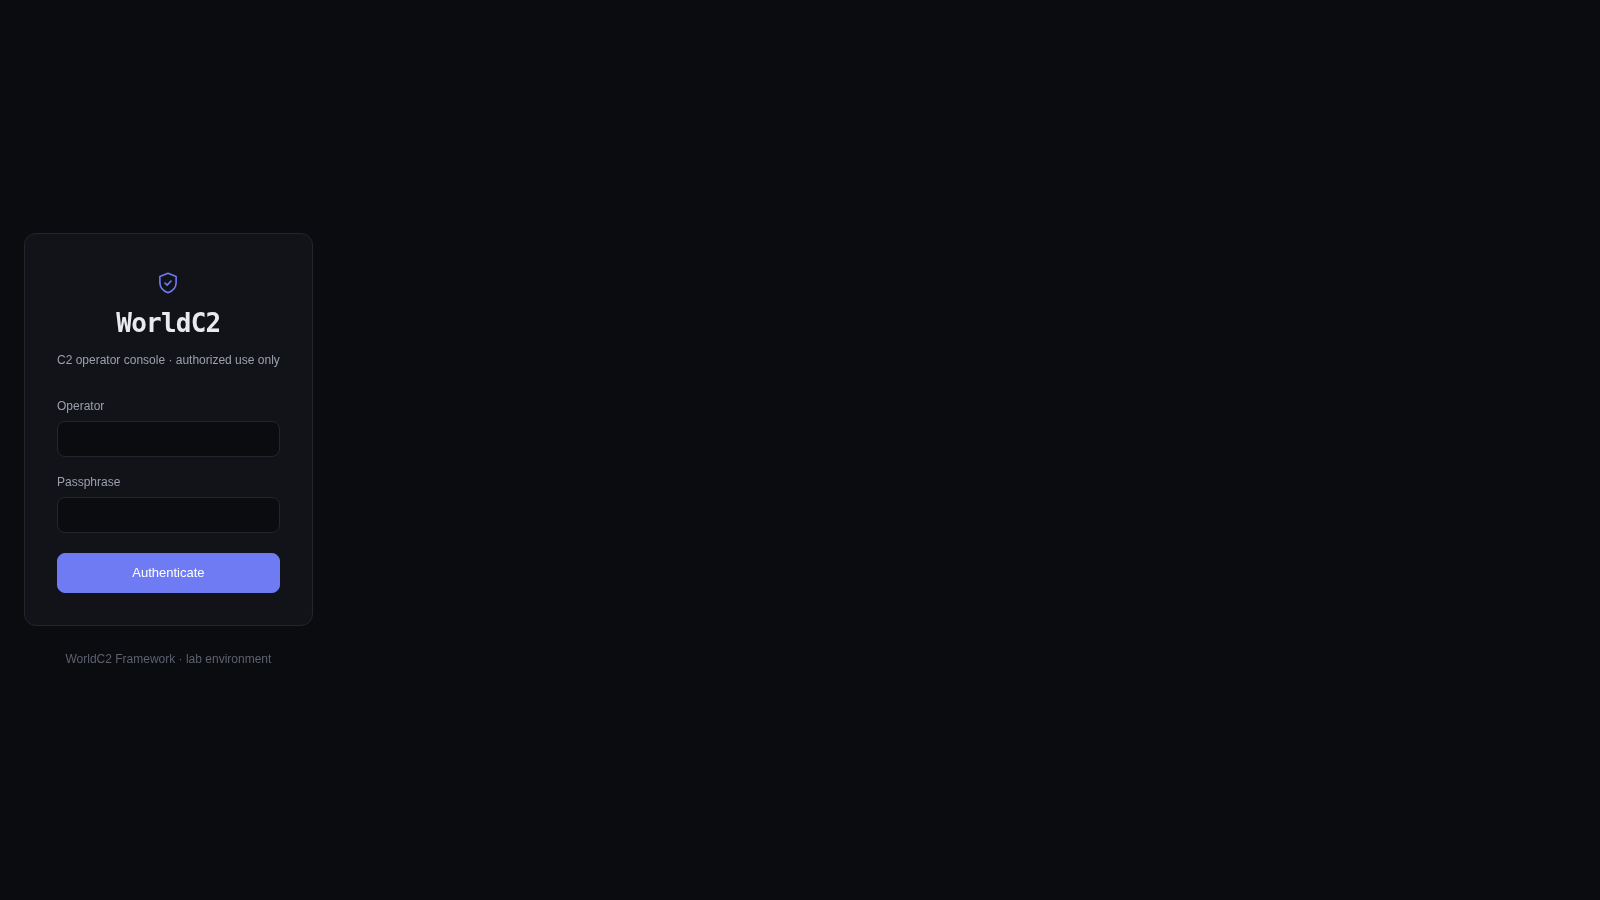
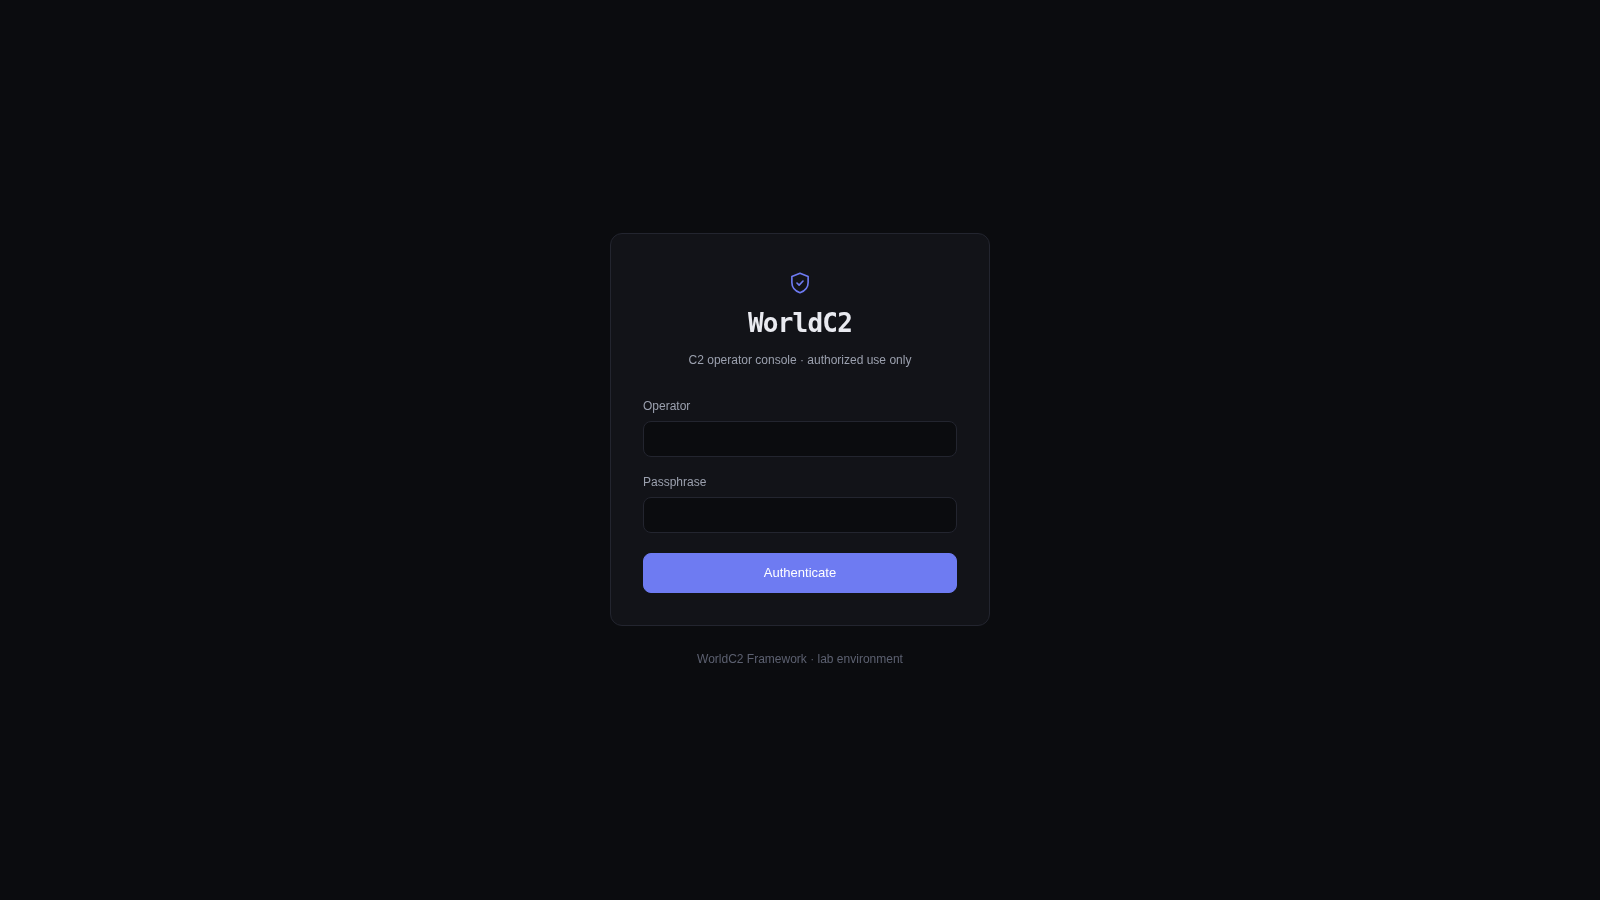
fix(web): login card was shrink-to-fit and stuck to the left edge
The unauthenticated route renders inside .app-shell (display:flex), so
.login-page became a flex item and collapsed to content width — the
centering rules had nothing to center. width:100% restores full-bleed
layout; screenshot recaptured with CSS fully applied.

diff --git a/web/src/views/Login.vue b/web/src/views/Login.vue
@@ -89,6 +89,7 @@ export default {
 
 <style scoped>
 .login-page {
+  width: 100%;
   min-height: 100vh;
   display: flex;
   flex-direction: column;
